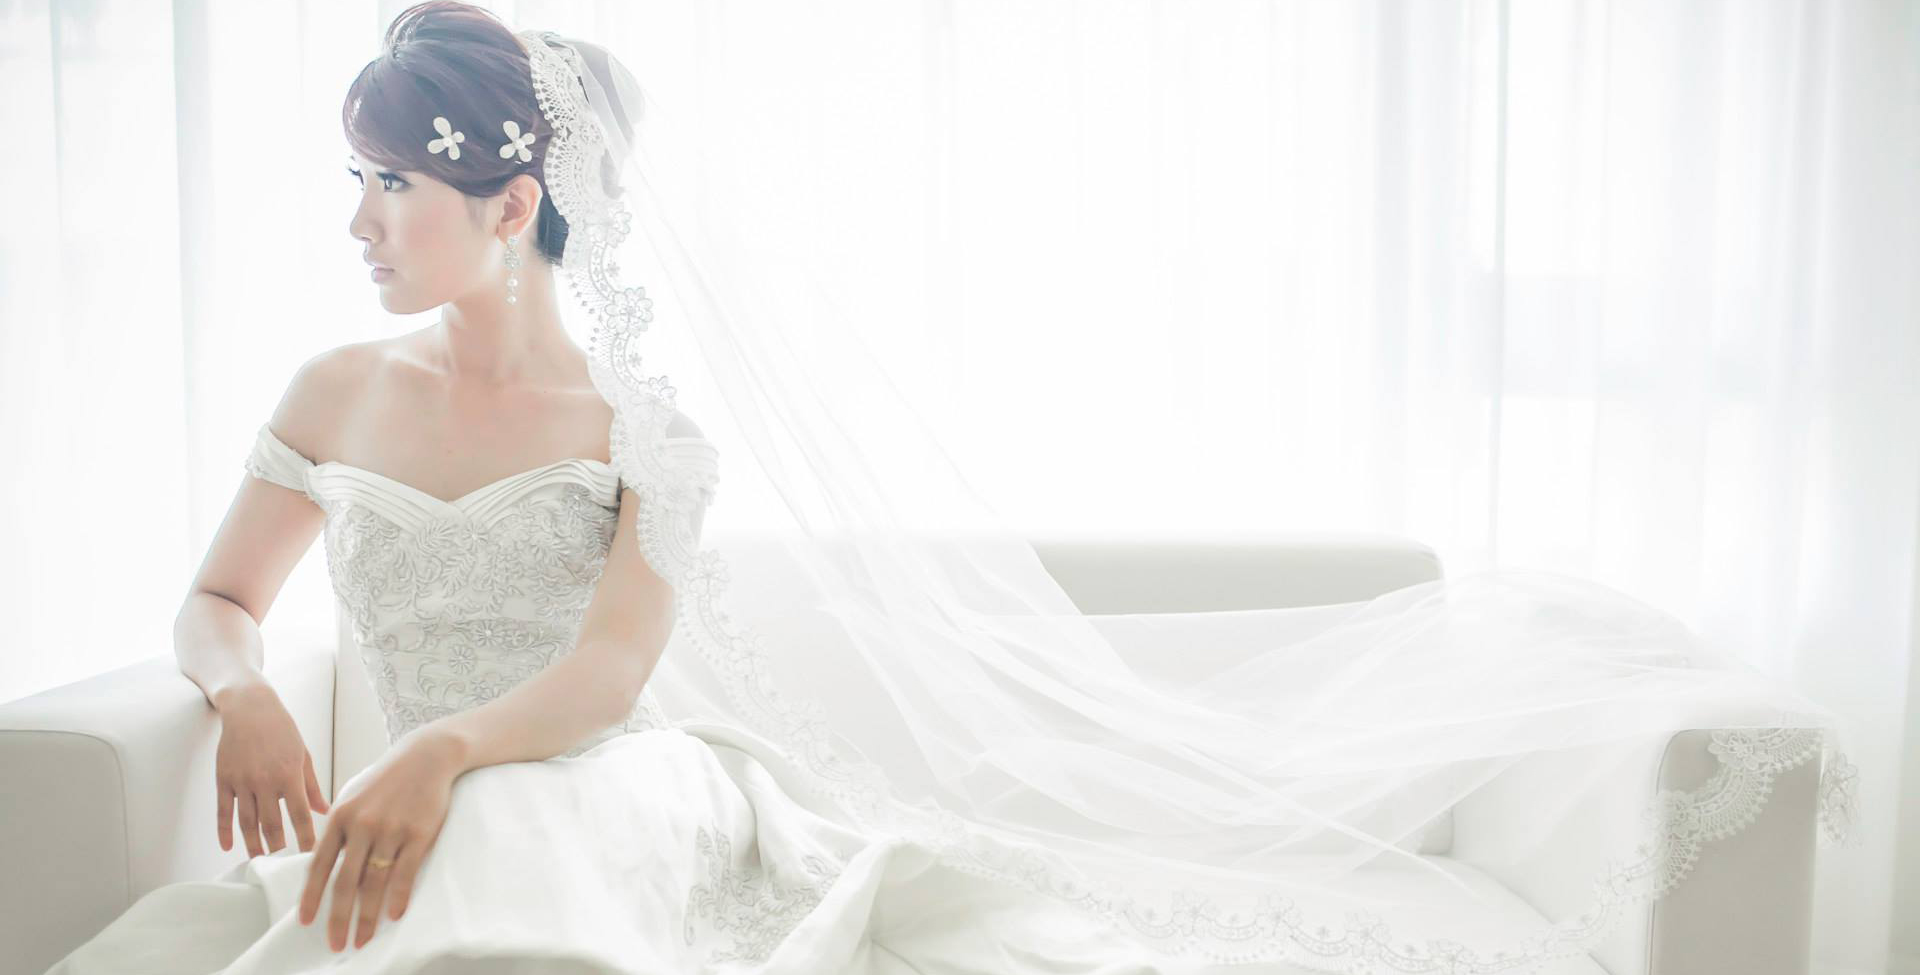
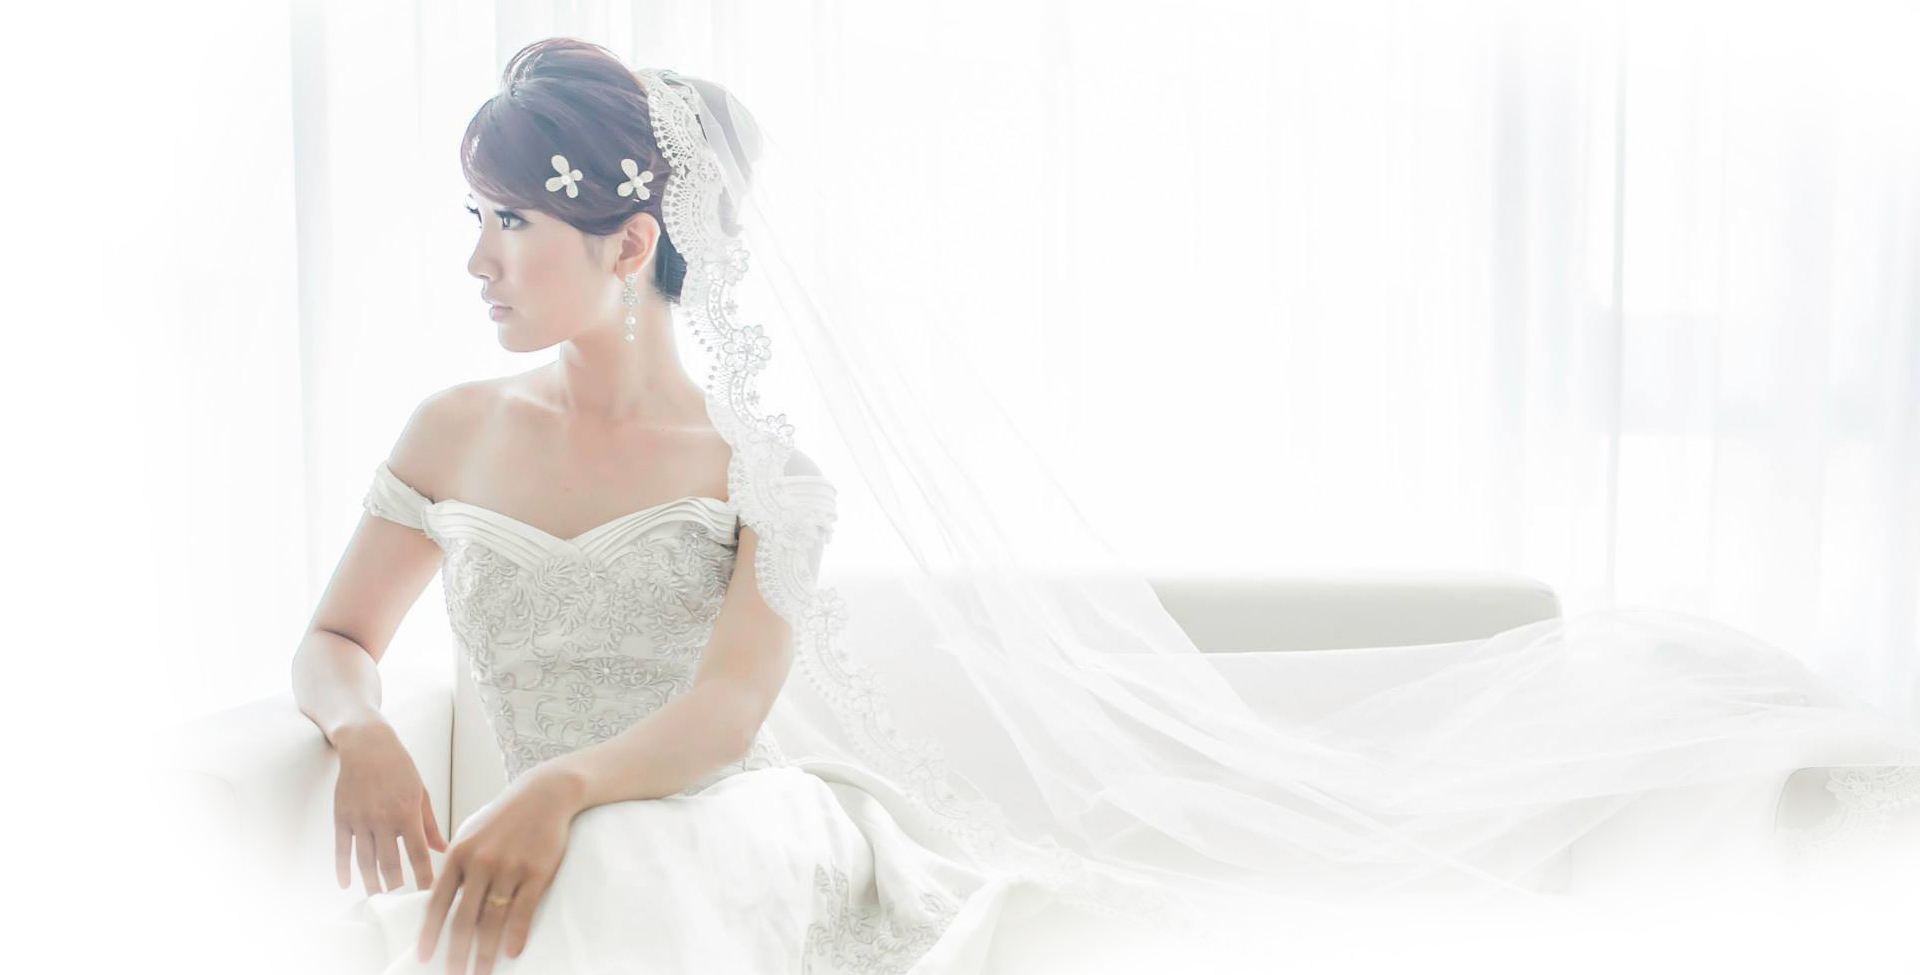
1.換圖 2.更換文案(彩妝工具 --> 霧眉&紋眉)

diff --git a/index.html b/index.html
@@ -215,7 +215,7 @@
 								 量身打造
 							</div>
 							
-							<div class="tp-caption text text-right hidden-sm hidden-xs"
+							<div class="tp-caption text text-right"
 								 data-x="right"
 								 data-y="470"
 								 data-speed="700"
@@ -479,11 +479,12 @@
 						
 					<div class="slider-left-side">
 		
-						<h1>代售彩妝工具</h1>
+						<h1>霧眉&紋眉</h1>
 						
 						<br>
 						
-						<p>"工欲善其事，必先利其器"，無論您身在新娘秘書行列、又或是自行練習操作、甚至僅個人使用，再好的功夫依舊需要得心應手的工具才能發揮，但茫茫彩妝工具，什麼好什麼壞呢？為此我們不定時的提供謹慎篩選後的優質物品給您作參考，小至貼身物品大至專業器材，讓您省下苦惱，更不費心神。</p>
+						<p>常常被認為妝前無精打采嗎？或您天生眉毛毛流旺盛嗎？天生旺盛的眉毛，毛根大多較粗較硬，導致眉毛過度死黑；無論您是否不化妝就非常無神，又或是毛流狂妄不受控，我們都能為您找到最為適合的眉型，搭配無痛感麻藥，讓您即刻擁有完美眉型。</p>
+						<!-- <p>"工欲善其事，必先利其器"，無論您身在新娘秘書行列、又或是自行練習操作、甚至僅個人使用，再好的功夫依舊需要得心應手的工具才能發揮，但茫茫彩妝工具，什麼好什麼壞呢？為此我們不定時的提供謹慎篩選後的優質物品給您作參考，小至貼身物品大至專業器材，讓您省下苦惱，更不費心神。</p> -->
 						
 						<br>
 						

diff --git a/assets/css/custom.css b/assets/css/custom.css
@@ -630,7 +630,7 @@
 
 		.vertical-tabs .nav-tabs li {
 			display: inline-block;
-    		width: 30%;
+    		width: 25%;
     		margin-right: 10px;
 		}
 		
